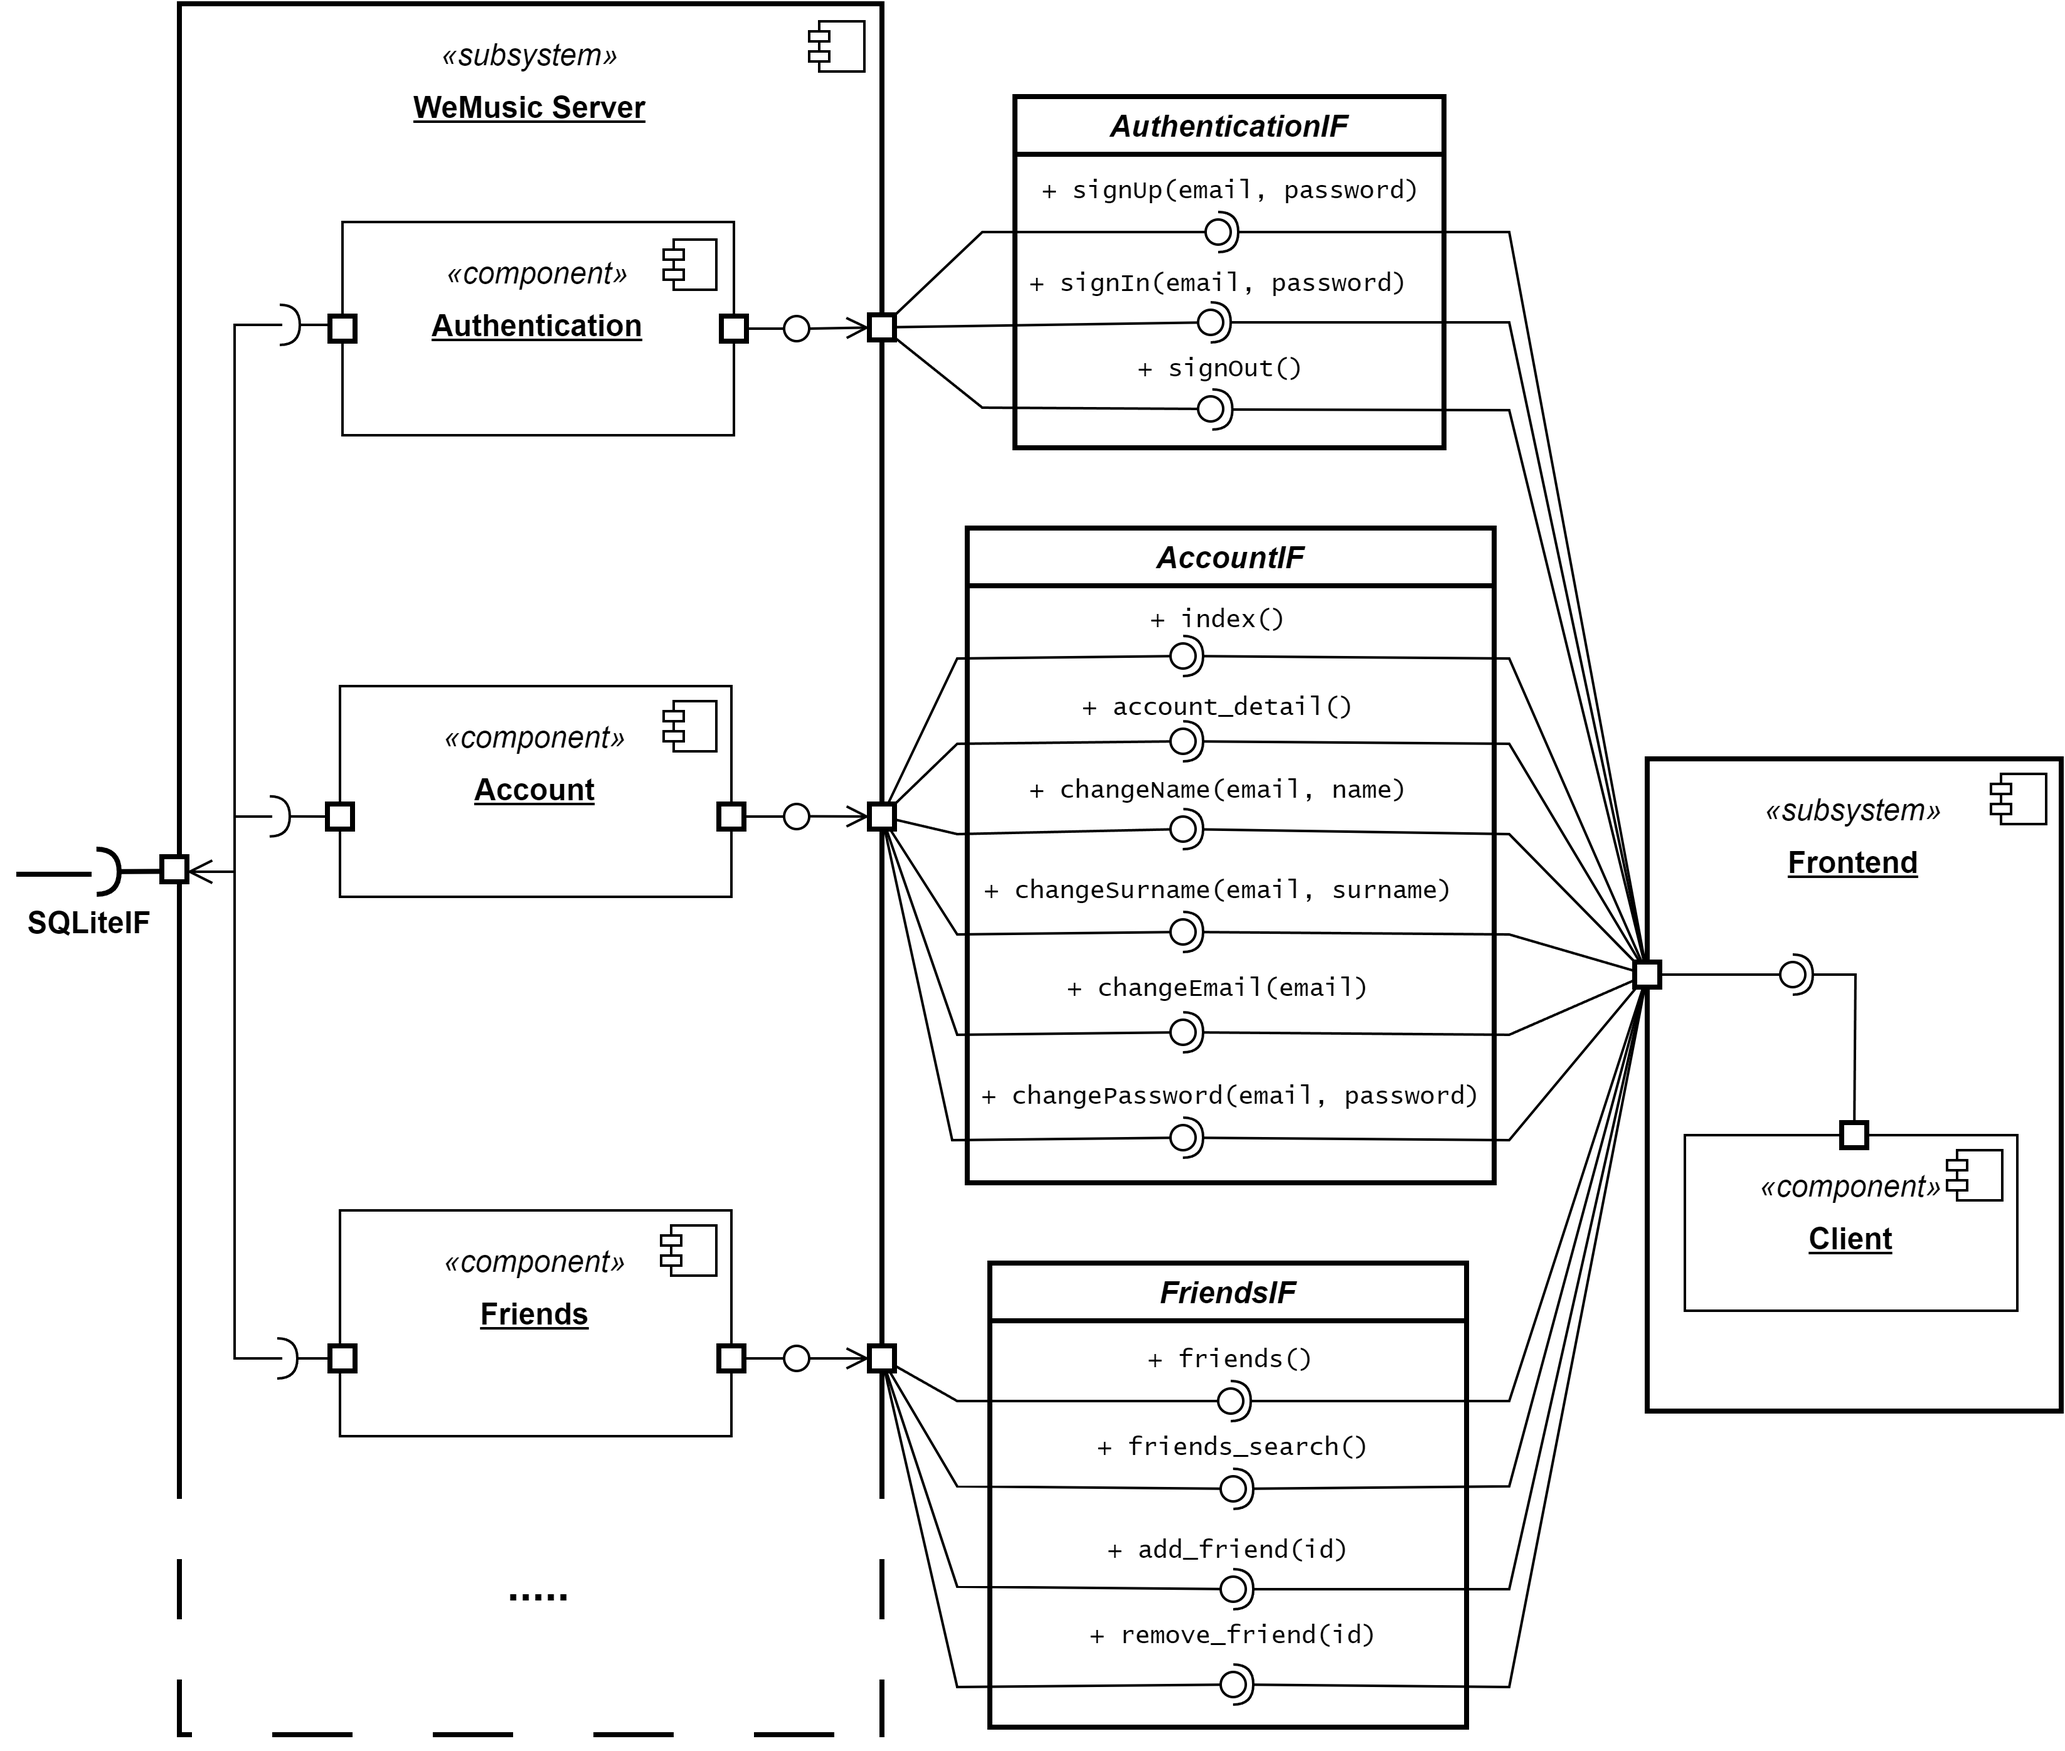
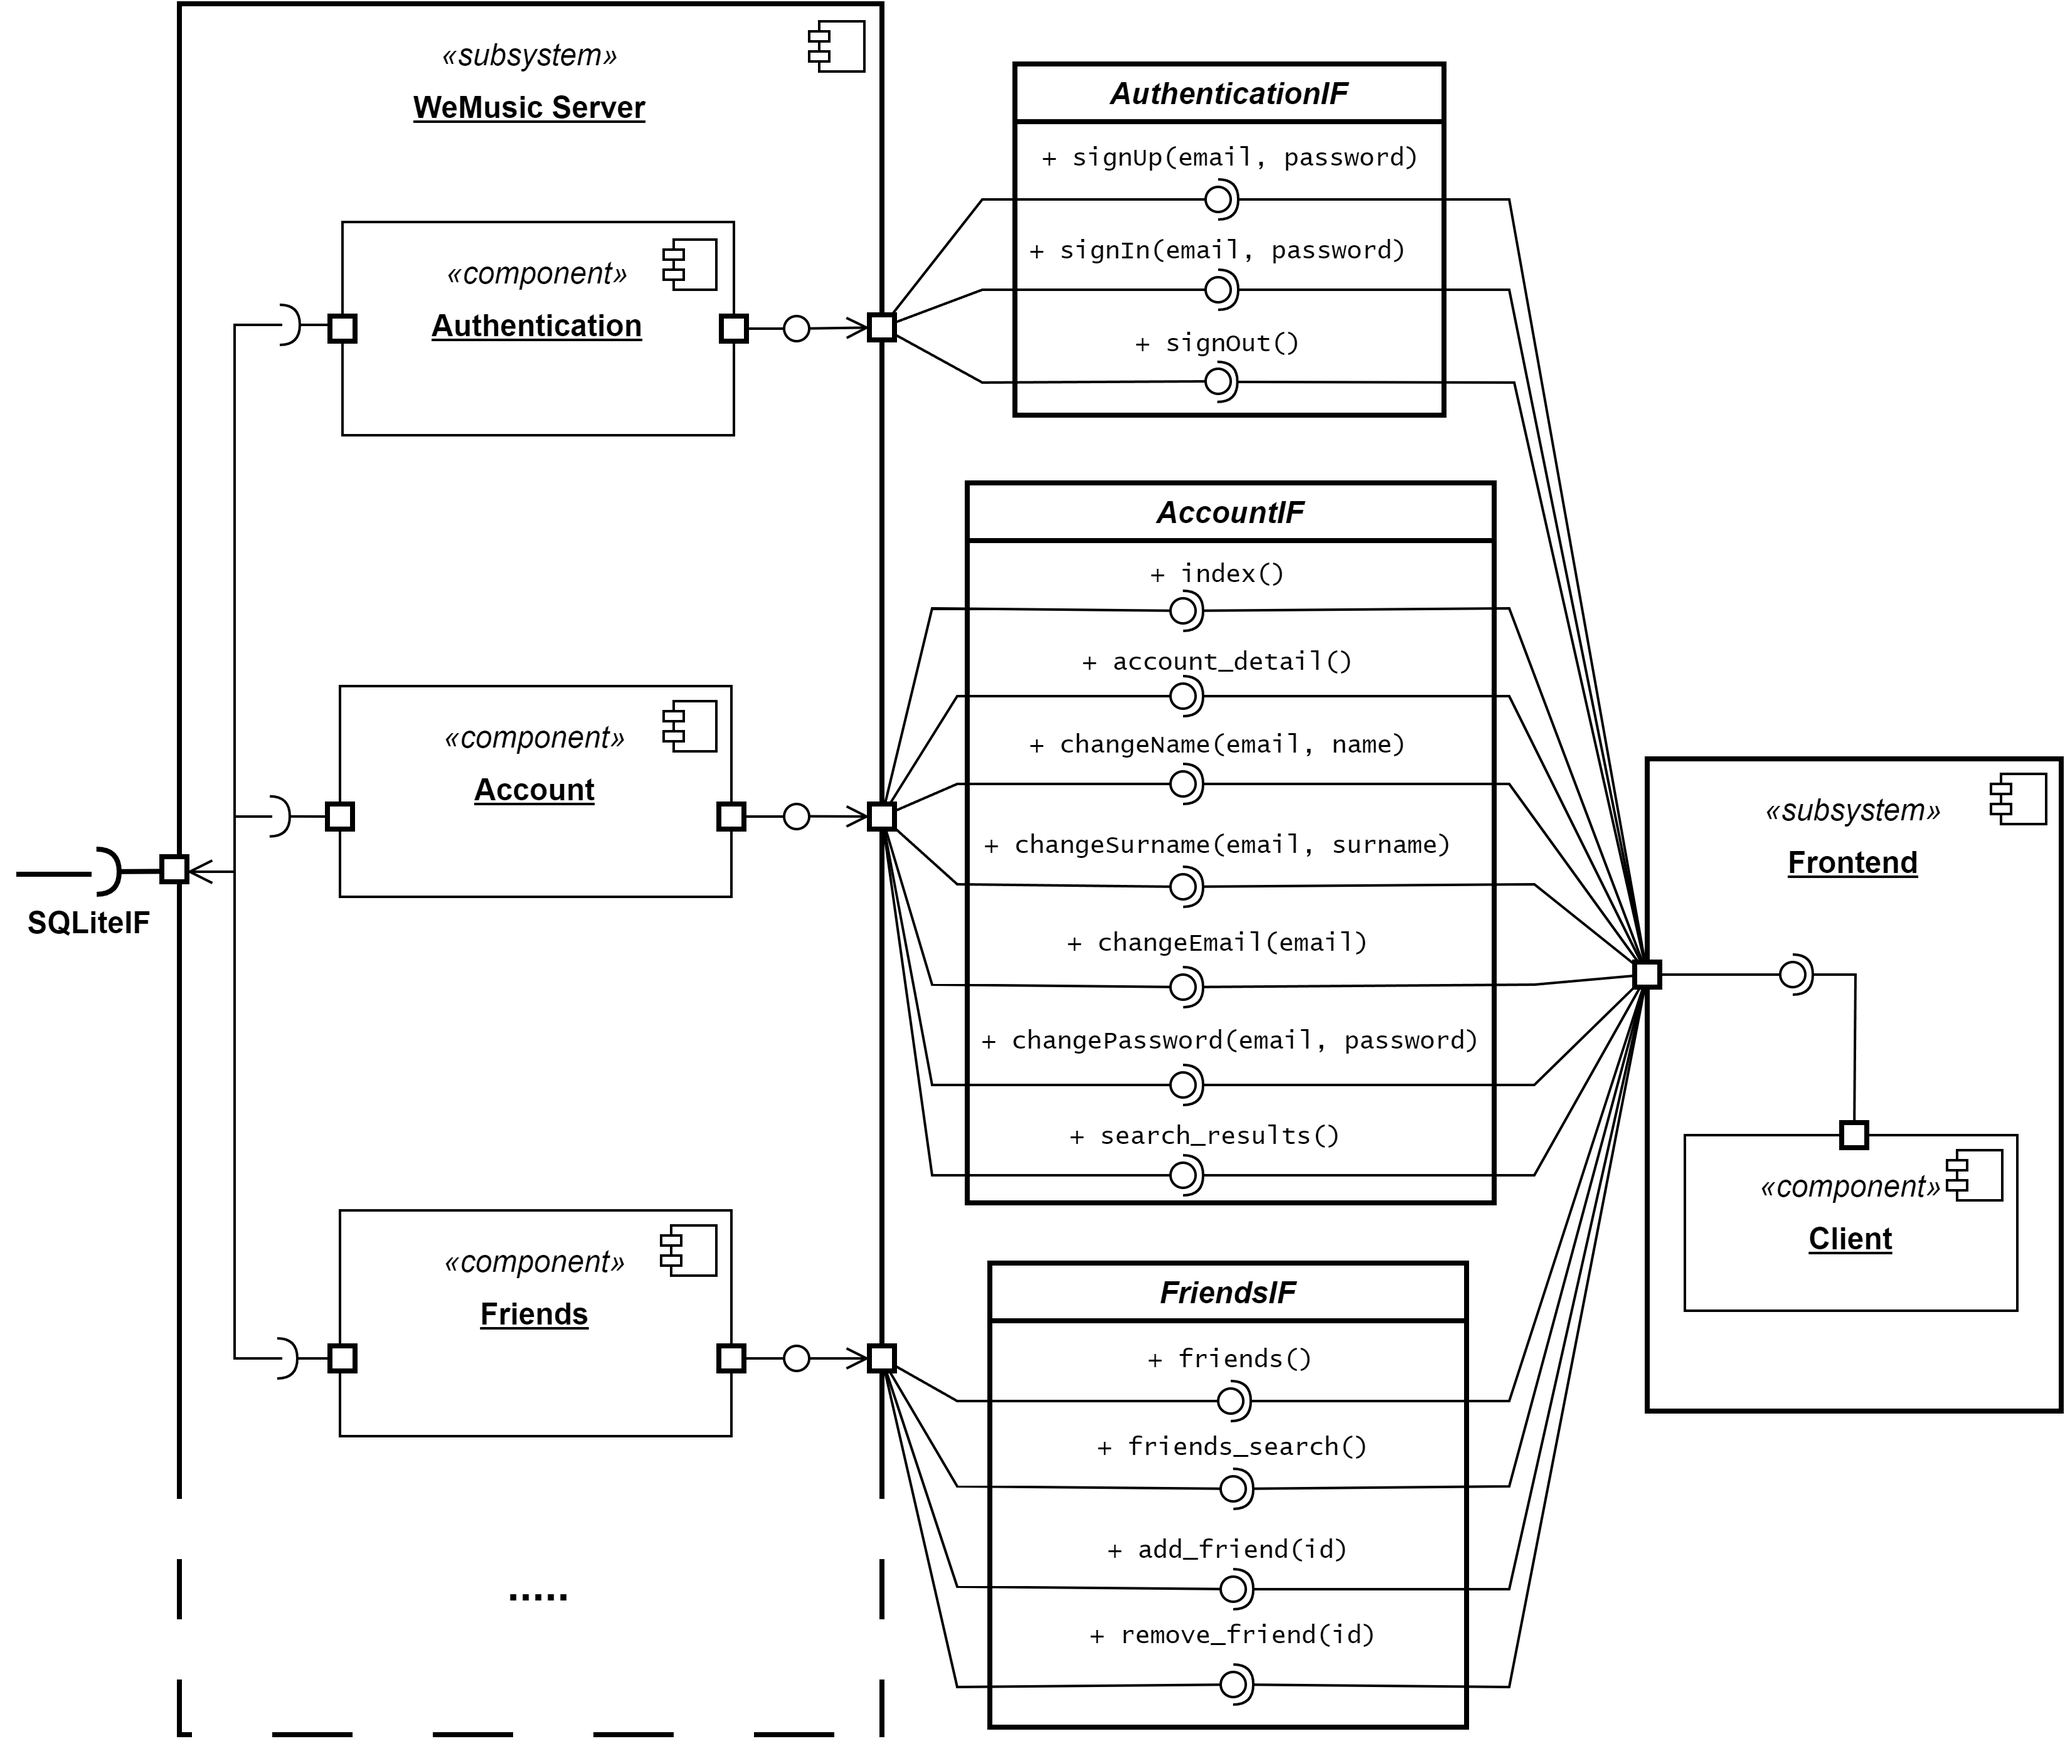
component diagram fixed

Changed region(s): [[0.4648, 0.0312, 0.8056, 0.6855], [0.4338, 0.3739, 0.4648, 0.6232], [0.4338, 0.1558, 0.4648, 0.2181]]

diff --git a/documentazione/iterations/iterazione2.tex b/documentazione/iterations/iterazione2.tex
@@ -437,8 +437,8 @@ per il funzionamento base della comunicazione tra utente e sistema.
 
 \section{UML Component Diagram}
 Dopo aver implementato i casi d'uso sopracitati e le relative interfacce, le API, la struttura del 
-sistema risulta come segue in \ref{fig-uml-component-diag_2} e \ref{fig-uml-component-diag_4}. Per 
-aumentare la comprensione la rappresentazione del sistema è stata divisa in due. 
+sistema risulta come segue in \ref{fig-uml-component-diag_2} e \ref{fig-uml-component-diag_4}. Al fine di
+facilitare la lettura e comprensione del grafico, la rappresentazione del sistema è stata divisa in due. 
 \subparagraph{Autenticazione, Account, Amici} In figura sono presenti tutte le interfacce
 relative alle componenti di Autenticazione, Account e Amici.
 \begin{figure}[H]
